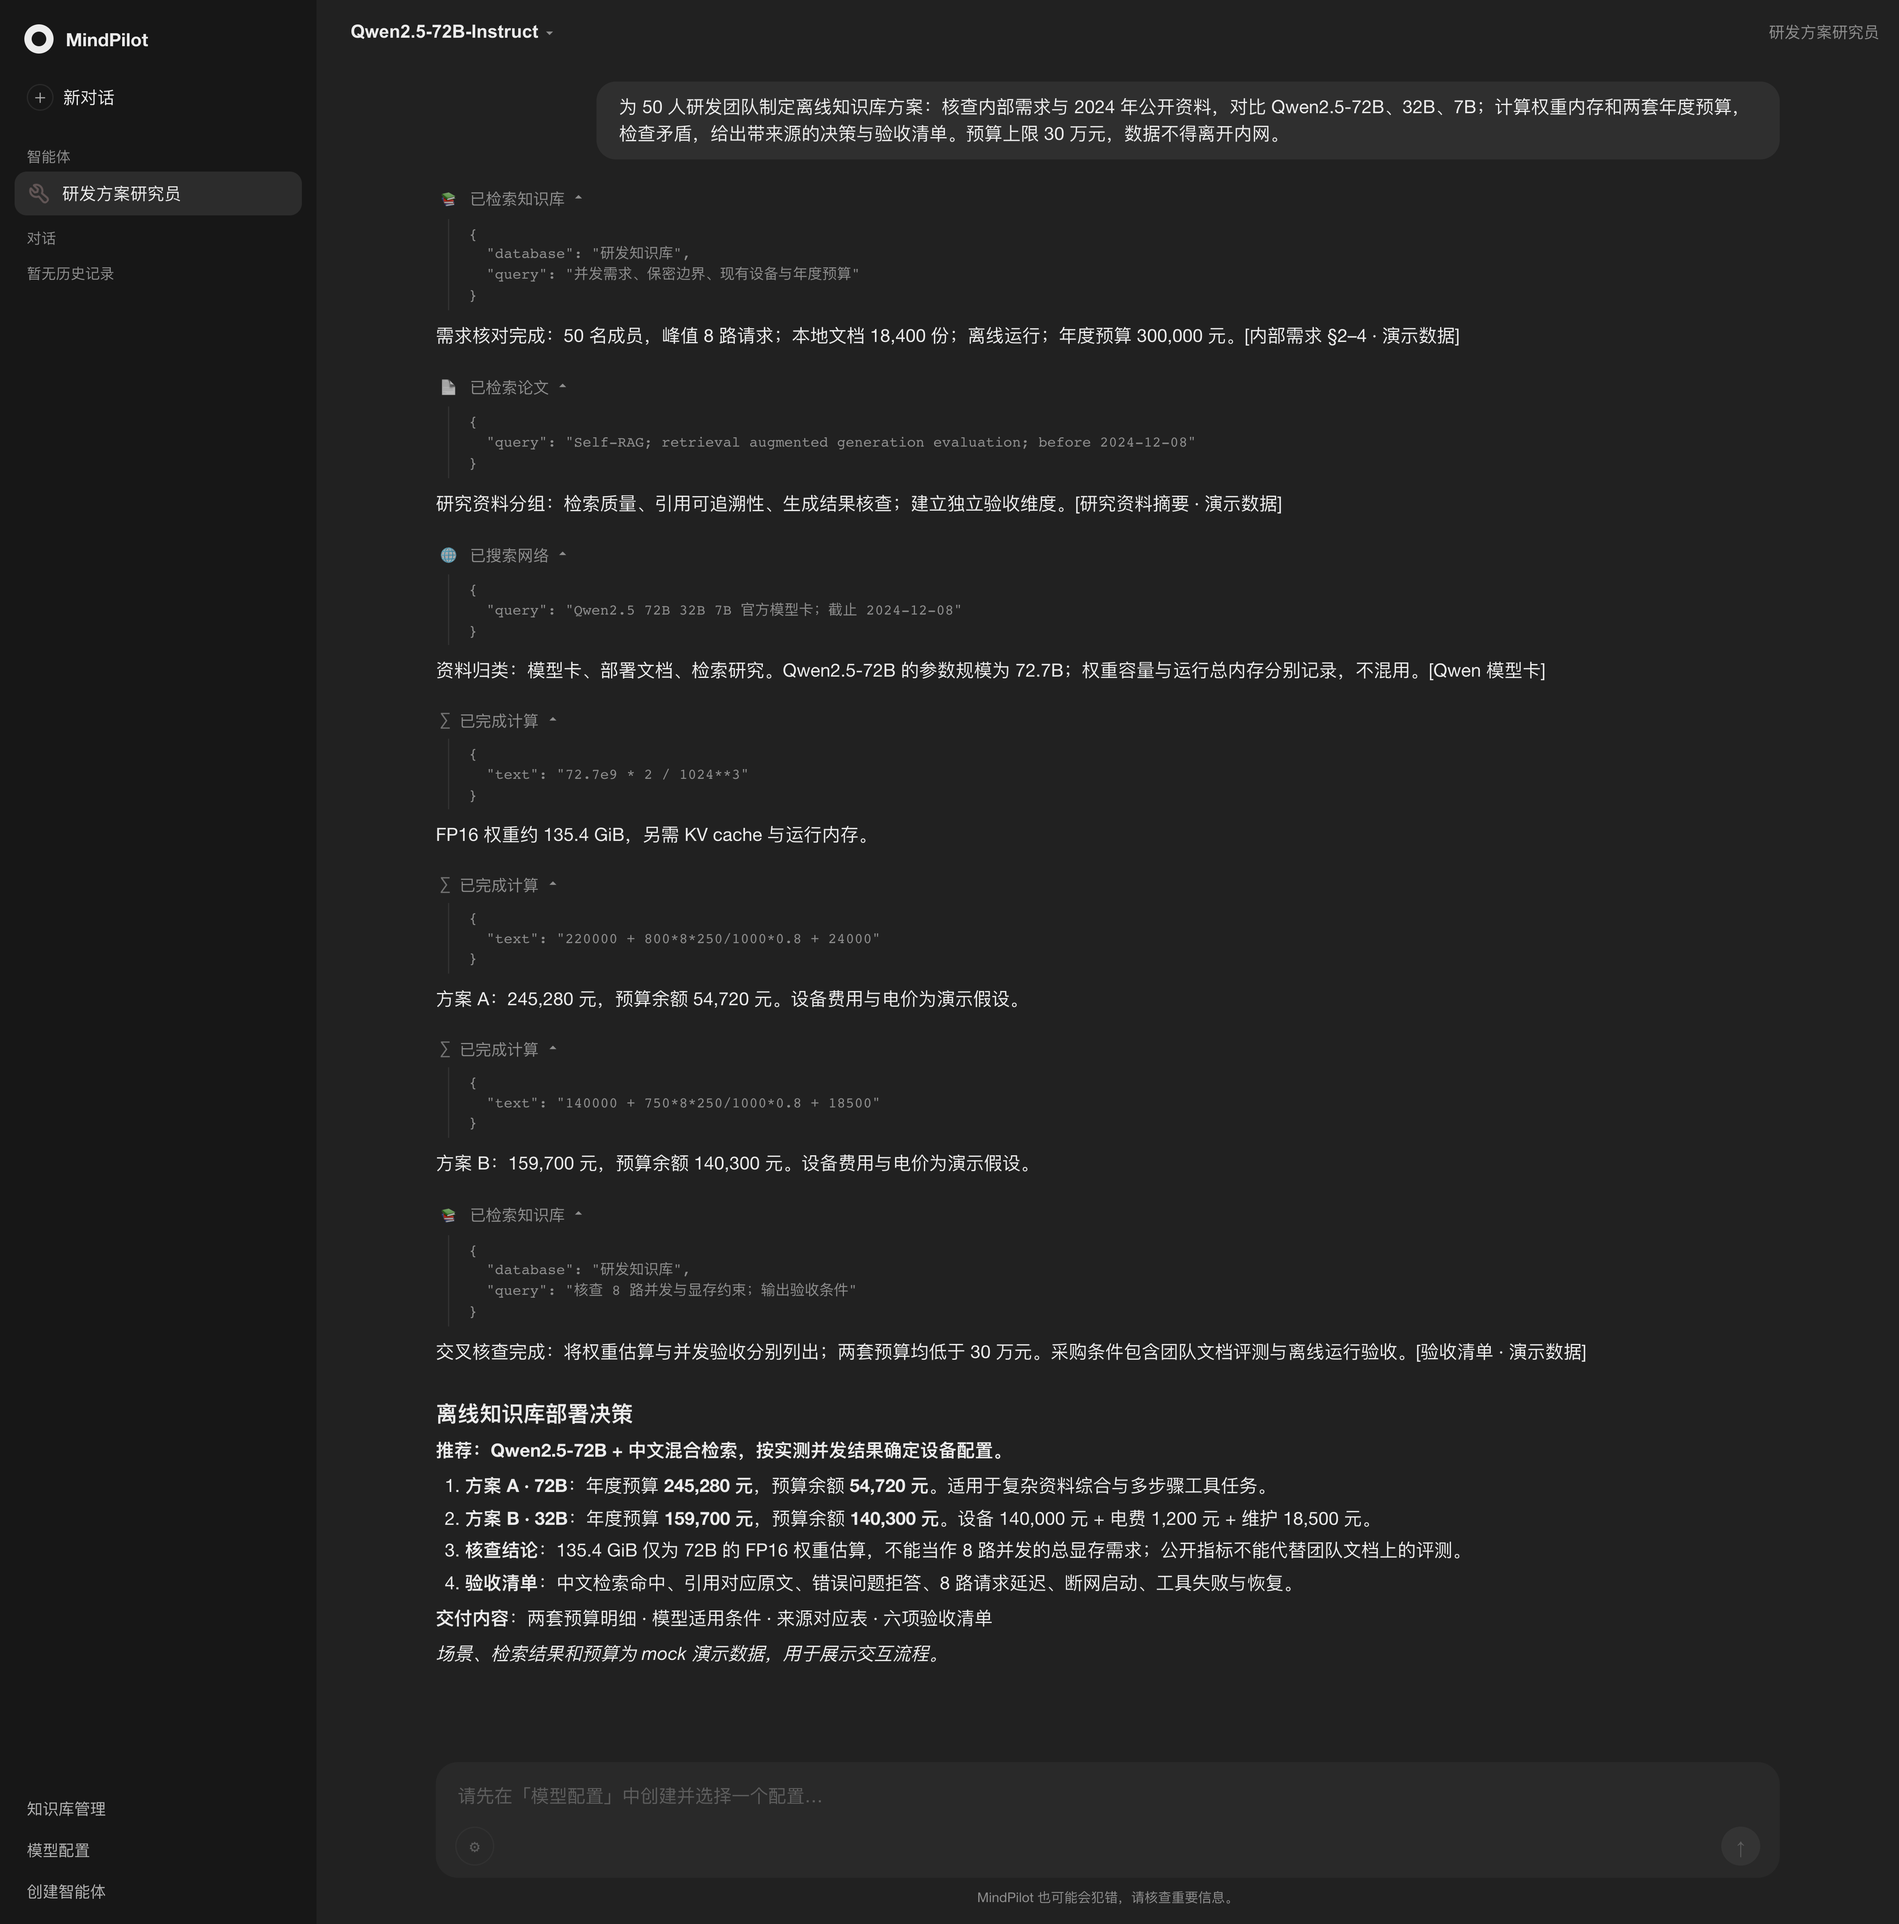
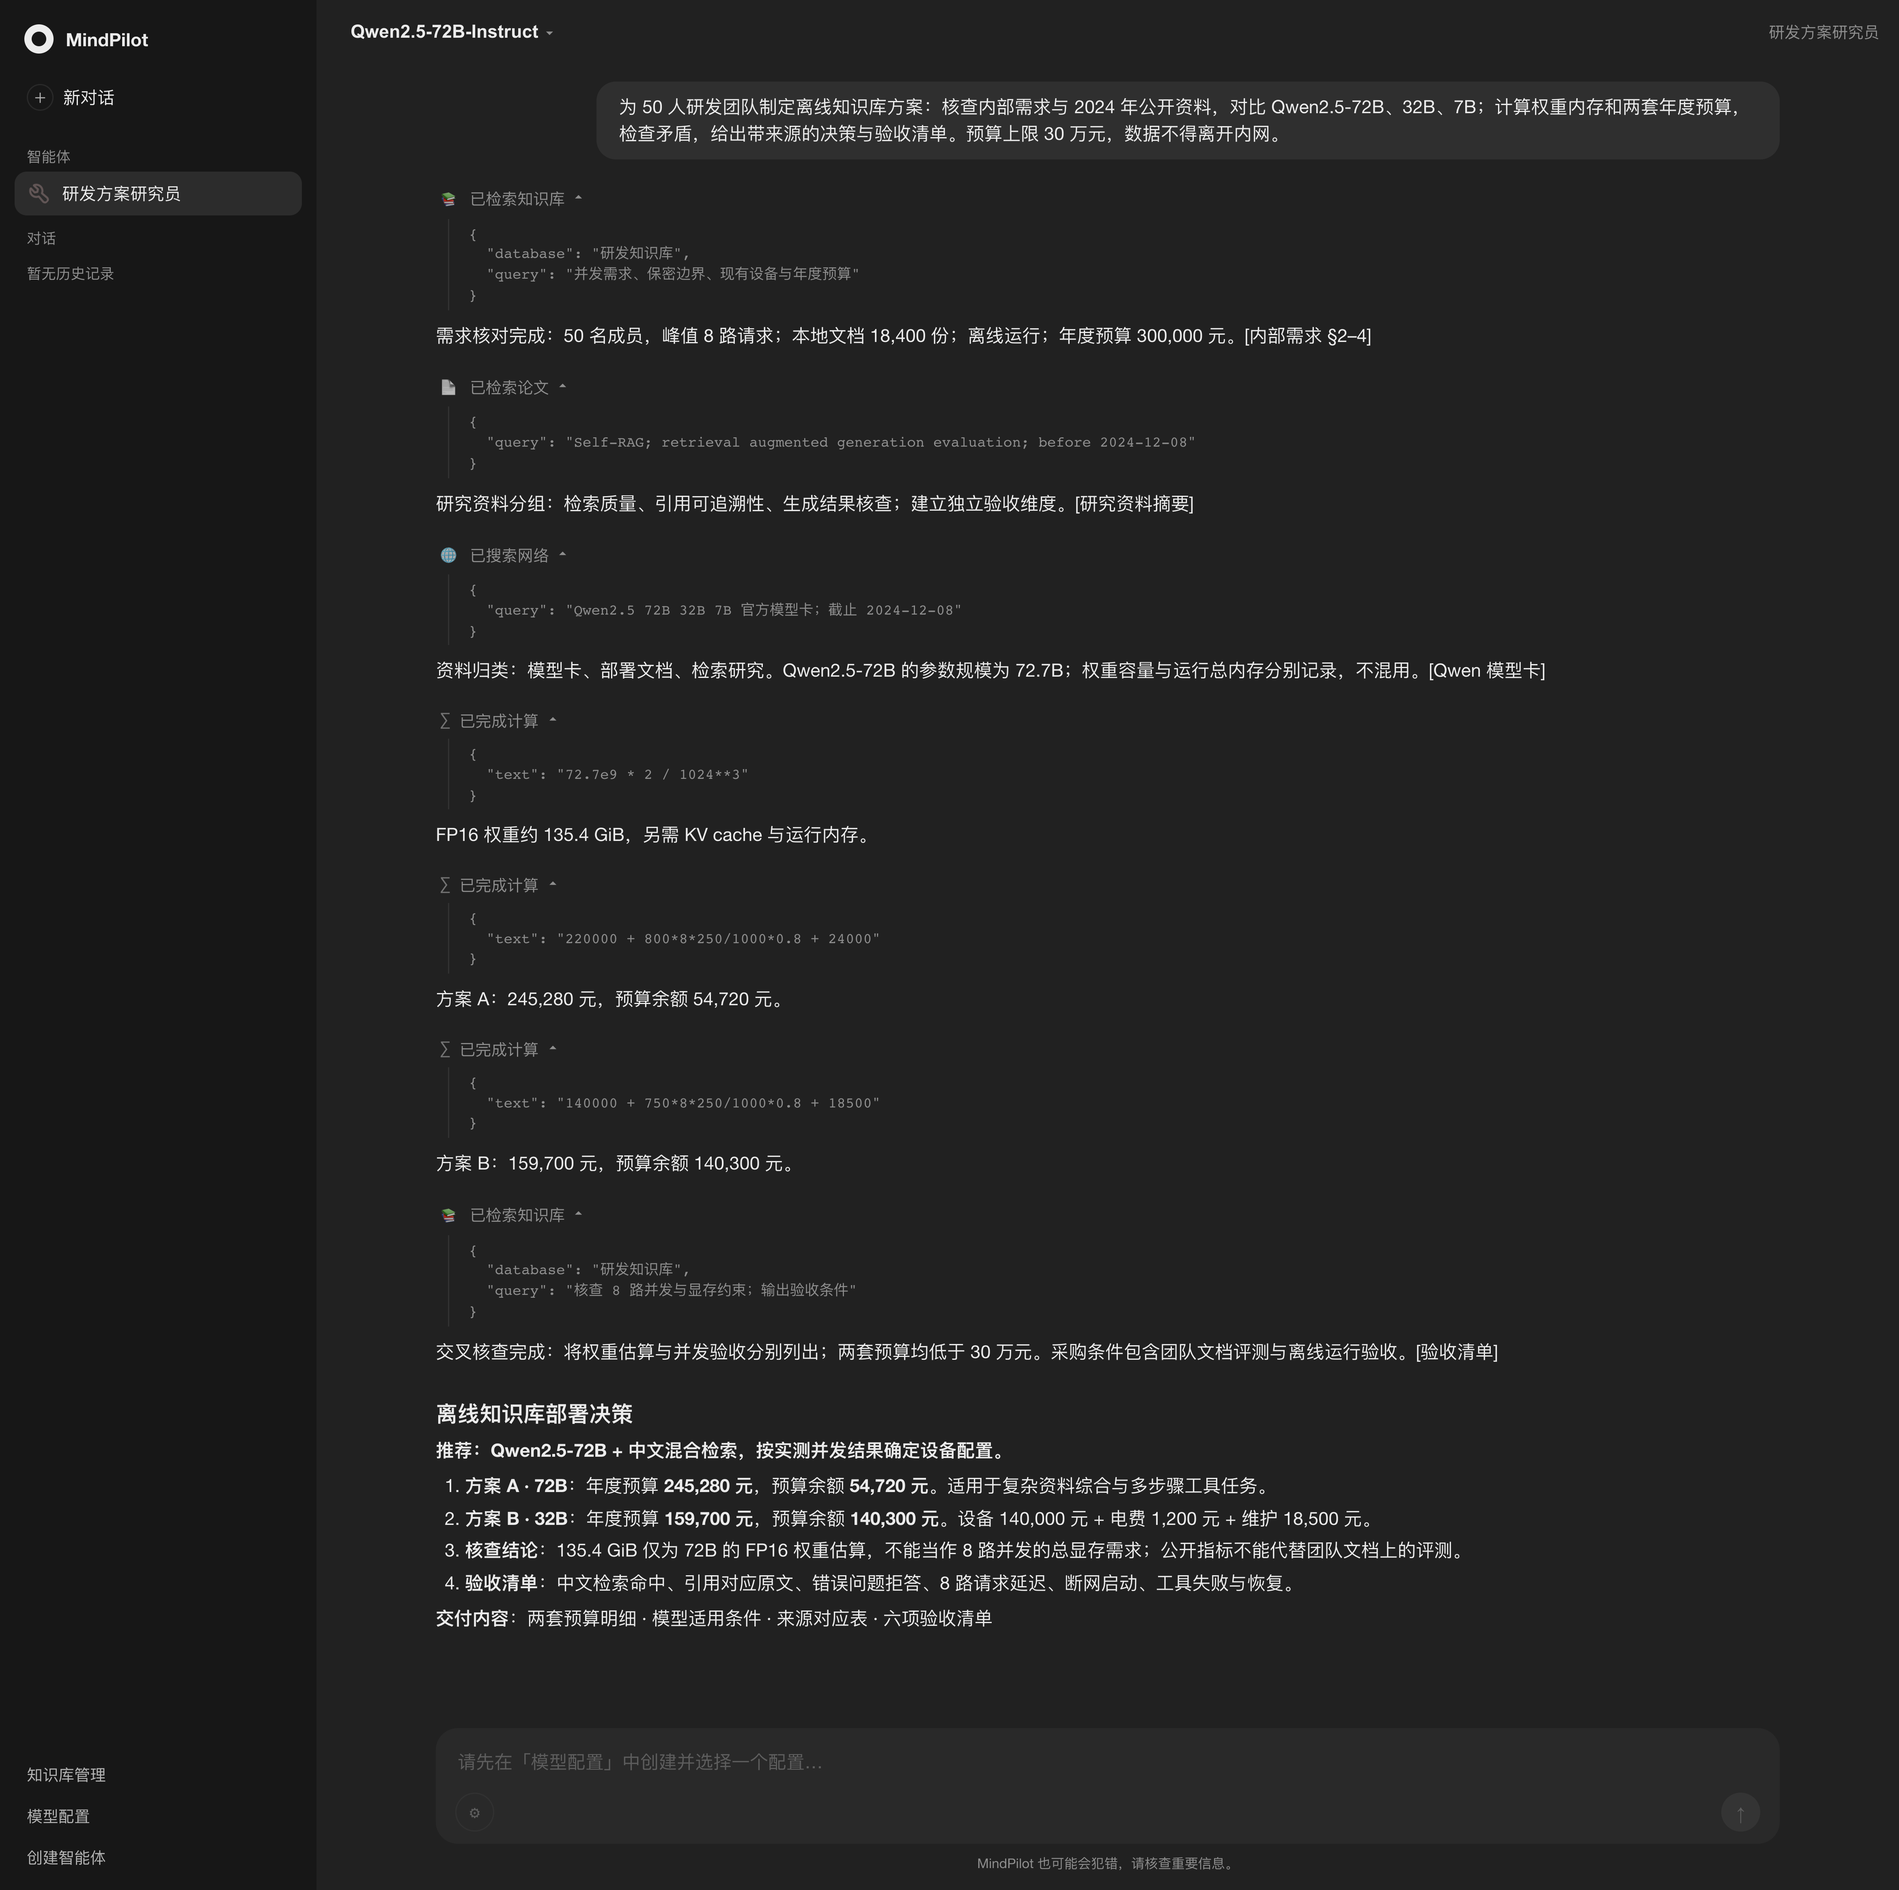
docs: 更新任务示例与高清截图

diff --git a/Frontend/src/renderer/src/views/demoConversation.ts b/Frontend/src/renderer/src/views/demoConversation.ts
@@ -2,18 +2,18 @@ export const demoTask = "为 50 人研发团队制定离线知识库方案：核
 
 export const demoEvents = [
   { type: "tool_start", run_id: "kb", name: "search_local_knowledgebase", input: { database: "研发知识库", query: "并发需求、保密边界、现有设备与年度预算" } },
-  { type: "tool_end", run_id: "kb", name: "search_local_knowledgebase", text: "需求核对完成：50 名成员，峰值 8 路请求；本地文档 18,400 份；离线运行；年度预算 300,000 元。[内部需求 §2–4 · 演示数据]" },
+  { type: "tool_end", run_id: "kb", name: "search_local_knowledgebase", text: "需求核对完成：50 名成员，峰值 8 路请求；本地文档 18,400 份；离线运行；年度预算 300,000 元。[内部需求 §2–4]" },
   { type: "tool_start", run_id: "papers", name: "arxiv", input: { query: "Self-RAG; retrieval augmented generation evaluation; before 2024-12-08" } },
-  { type: "tool_end", run_id: "papers", name: "arxiv", text: "研究资料分组：检索质量、引用可追溯性、生成结果核查；建立独立验收维度。[研究资料摘要 · 演示数据]" },
+  { type: "tool_end", run_id: "papers", name: "arxiv", text: "研究资料分组：检索质量、引用可追溯性、生成结果核查；建立独立验收维度。[研究资料摘要]" },
   { type: "tool_start", run_id: "web", name: "search_internet", input: { query: "Qwen2.5 72B 32B 7B 官方模型卡；截止 2024-12-08" } },
   { type: "tool_end", run_id: "web", name: "search_internet", text: "资料归类：模型卡、部署文档、检索研究。Qwen2.5-72B 的参数规模为 72.7B；权重容量与运行总内存分别记录，不混用。[Qwen 模型卡]" },
   { type: "tool_start", run_id: "memory", name: "calculate", input: { text: "72.7e9 * 2 / 1024**3" } },
   { type: "tool_end", run_id: "memory", name: "calculate", text: "FP16 权重约 135.4 GiB，另需 KV cache 与运行内存。" },
   { type: "tool_start", run_id: "budget-a", name: "calculate", input: { text: "220000 + 800*8*250/1000*0.8 + 24000" } },
-  { type: "tool_end", run_id: "budget-a", name: "calculate", text: "方案 A：245,280 元，预算余额 54,720 元。设备费用与电价为演示假设。" },
+  { type: "tool_end", run_id: "budget-a", name: "calculate", text: "方案 A：245,280 元，预算余额 54,720 元。" },
   { type: "tool_start", run_id: "budget-b", name: "calculate", input: { text: "140000 + 750*8*250/1000*0.8 + 18500" } },
-  { type: "tool_end", run_id: "budget-b", name: "calculate", text: "方案 B：159,700 元，预算余额 140,300 元。设备费用与电价为演示假设。" },
+  { type: "tool_end", run_id: "budget-b", name: "calculate", text: "方案 B：159,700 元，预算余额 140,300 元。" },
   { type: "tool_start", run_id: "check", name: "search_local_knowledgebase", input: { database: "研发知识库", query: "核查 8 路并发与显存约束；输出验收条件" } },
-  { type: "tool_end", run_id: "check", name: "search_local_knowledgebase", text: "交叉核查完成：将权重估算与并发验收分别列出；两套预算均低于 30 万元。采购条件包含团队文档评测与离线运行验收。[验收清单 · 演示数据]" },
-  { type: "answer", text: "## 离线知识库部署决策\n**推荐：Qwen2.5-72B + 中文混合检索，按实测并发结果确定设备配置。**\n\n1. **方案 A · 72B**：年度预算 **245,280 元**，预算余额 **54,720 元**。适用于复杂资料综合与多步骤工具任务。\n2. **方案 B · 32B**：年度预算 **159,700 元**，预算余额 **140,300 元**。设备 140,000 元 + 电费 1,200 元 + 维护 18,500 元。\n3. **核查结论**：135.4 GiB 仅为 72B 的 FP16 权重估算，不能当作 8 路并发的总显存需求；公开指标不能代替团队文档上的评测。\n4. **验收清单**：中文检索命中、引用对应原文、错误问题拒答、8 路请求延迟、断网启动、工具失败与恢复。\n\n**交付内容**：两套预算明细 · 模型适用条件 · 来源对应表 · 六项验收清单\n\n*场景、检索结果和预算为 mock 演示数据，用于展示交互流程。*" }
+  { type: "tool_end", run_id: "check", name: "search_local_knowledgebase", text: "交叉核查完成：将权重估算与并发验收分别列出；两套预算均低于 30 万元。采购条件包含团队文档评测与离线运行验收。[验收清单]" },
+  { type: "answer", text: "## 离线知识库部署决策\n**推荐：Qwen2.5-72B + 中文混合检索，按实测并发结果确定设备配置。**\n\n1. **方案 A · 72B**：年度预算 **245,280 元**，预算余额 **54,720 元**。适用于复杂资料综合与多步骤工具任务。\n2. **方案 B · 32B**：年度预算 **159,700 元**，预算余额 **140,300 元**。设备 140,000 元 + 电费 1,200 元 + 维护 18,500 元。\n3. **核查结论**：135.4 GiB 仅为 72B 的 FP16 权重估算，不能当作 8 路并发的总显存需求；公开指标不能代替团队文档上的评测。\n4. **验收清单**：中文检索命中、引用对应原文、错误问题拒答、8 路请求延迟、断网启动、工具失败与恢复。\n\n**交付内容**：两套预算明细 · 模型适用条件 · 来源对应表 · 六项验收清单" }
 ] as const

diff --git a/README.md b/README.md
@@ -4,9 +4,9 @@ Desktop agents with local models, knowledge retrieval and a live execution timel
 
 [English](README.md) · [中文](README-zh.md)
 
-![MindPilot: a multi-stage research and deployment task using demonstration data](docs/images/home.png)
+![MindPilot: a multi-stage research and deployment task](docs/images/home.png)
 
-The example uses **mock demonstration data** to illustrate a long-running task: checking internal requirements, retrieving research and model documentation, calculating deployment budgets, resolving conflicting constraints and producing an acceptance checklist. It is an interaction example, not a model benchmark or a recorded inference run.
+This example follows a long-running task: checking internal requirements, retrieving research and model documentation, calculating deployment budgets, resolving conflicting constraints and producing an acceptance checklist.
 
 ## Features
 
@@ -93,9 +93,9 @@ npm test
 npm run build
 ```
 
-Tests cover model selection, generation settings, real Runnable/tool events, SQLite persistence and SSE handling. GitHub Actions runs backend checks and frontend tests/builds on Linux, Windows and macOS. Desktop packaging commands are `npm run build:win`, `npm run build:mac` and `npm run build:linux`; the Python backend runs separately.
+Tests cover model selection, generation settings, real Runnable/tool events, SQLite persistence and SSE handling. Desktop packaging commands are `npm run build:win`, `npm run build:mac` and `npm run build:linux`; the Python backend runs separately.
 
-To regenerate the README illustration, run `npm run demo`, then `npx playwright install chromium` and `npm run screenshot` in another frontend terminal. The demonstration uses the actual Vue conversation component with a separate set of labeled example data.
+To regenerate the README illustration, run `npm run demo`, then `npx playwright install chromium` and `npm run screenshot` in another frontend terminal. The screenshot uses the Vue conversation component.
 
 ## License
 

diff --git a/README-zh.md b/README-zh.md
@@ -4,9 +4,9 @@
 
 [English](README.md) · [中文](README-zh.md)
 
-![MindPilot：使用演示数据展示多阶段研究与部署任务](docs/images/home.png)
+![MindPilot：多阶段研究与部署任务](docs/images/home.png)
 
-图片使用 **mock 演示数据**，展示一个长程任务：读取内部需求、检索研究资料和模型文档、计算部署预算、核查矛盾并整理验收清单。示例用于说明交互流程，内容与预算均为演示设定。
+示例展示一个长程任务：读取内部需求、检索研究资料和模型文档、计算部署预算、核查矛盾并整理验收清单。
 
 ## 功能
 
@@ -97,9 +97,9 @@ npm test
 npm run build
 ```
 
-测试覆盖模型选择、生成参数、真实 Runnable 与工具事件、SQLite 保存和 SSE 处理。GitHub Actions 执行后端检查，以及 Linux、Windows、macOS 的前端测试与构建。桌面安装包分别使用 `npm run build:win`、`npm run build:mac`、`npm run build:linux`；Python 后端单独运行。
+测试覆盖模型选择、生成参数、真实 Runnable 与工具事件、SQLite 保存和 SSE 处理。桌面安装包分别使用 `npm run build:win`、`npm run build:mac`、`npm run build:linux`；Python 后端单独运行。
 
-重新生成 README 示例图：运行 `npm run demo`，在另一个前端终端执行 `npx playwright install chromium` 和 `npm run screenshot`。示例复用实际 Vue 会话组件，演示数据独立维护。
+重新生成 README 示例图：运行 `npm run demo`，在另一个前端终端执行 `npx playwright install chromium` 和 `npm run screenshot`。截图使用 Vue 会话组件。
 
 ## 许可证
 
